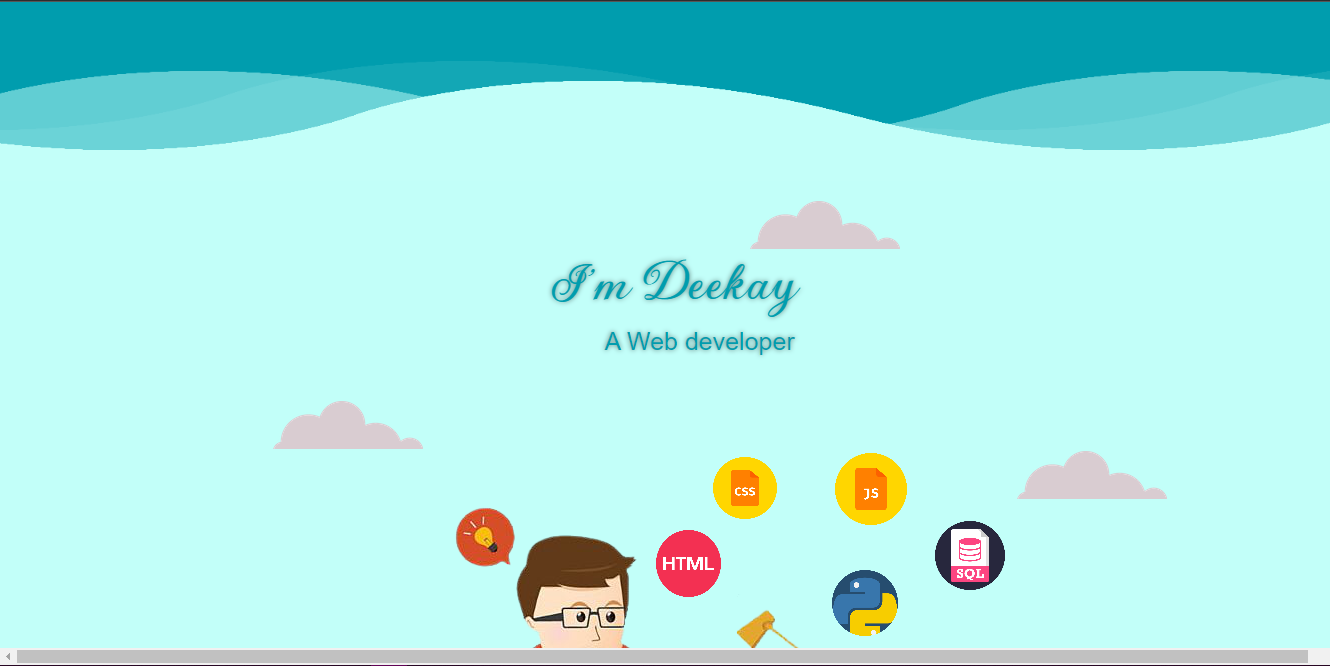
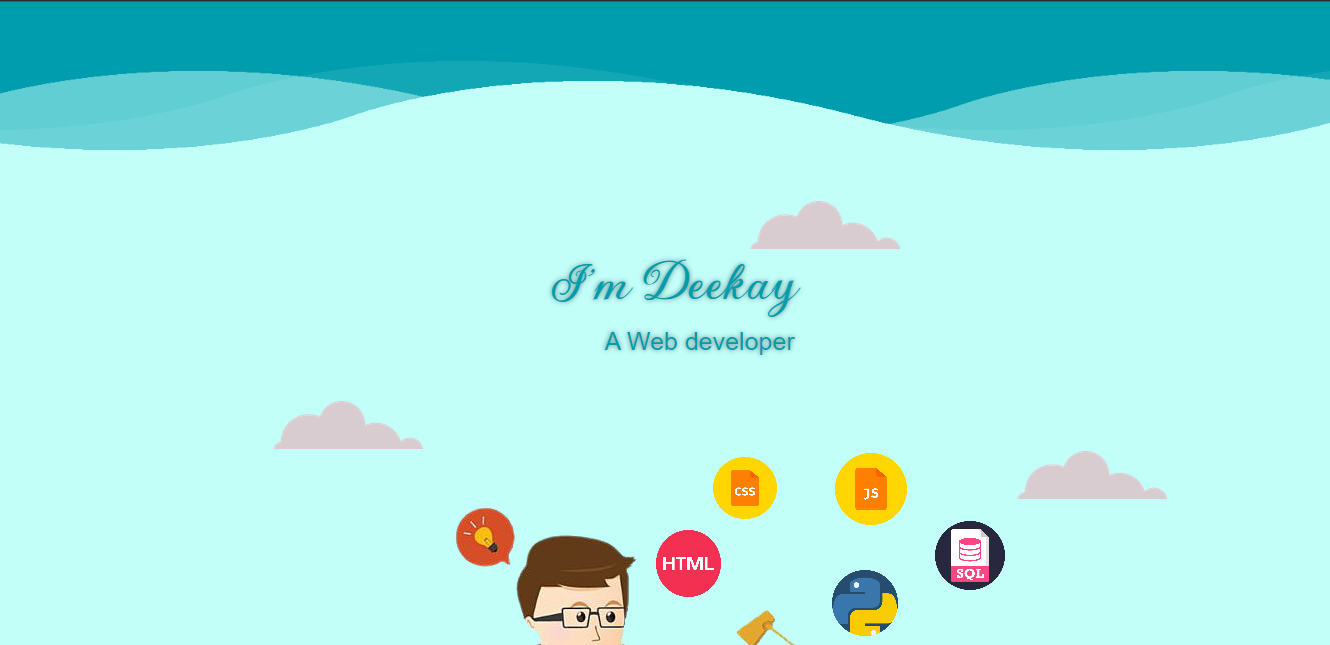
25/12/2021

diff --git a/index.html b/index.html
@@ -5,6 +5,12 @@
     <meta http-equiv="X-UA-Compatible" content="IE=edge" />
     <meta name="viewport" content="width=device-width, initial-scale=1.0" />
     <!--google fonts-->
+    <link rel="preconnect" href="https://fonts.googleapis.com">
+<link rel="preconnect" href="https://fonts.gstatic.com" crossorigin>
+<link href="https://fonts.googleapis.com/css2?family=Staatliches&display=swap" rel="stylesheet">
+    <link rel="preconnect" href="https://fonts.googleapis.com">
+<link rel="preconnect" href="https://fonts.gstatic.com" crossorigin>
+<link href="https://fonts.googleapis.com/css2?family=Anton&display=swap" rel="stylesheet">
     <link rel="preconnect" href="https://fonts.googleapis.com" />
     <link rel="preconnect" href="https://fonts.gstatic.com" crossorigin />
     <link rel="preconnect" href="https://fonts.googleapis.com" />
@@ -91,17 +97,11 @@
 
     <div class="" id="bgclr">
       <div class="row justify-content-evenly">
-        <div
-          class="col-lg-4 col-md-12 col-sm-12 col align-self-center"
-          id="quotes"
-        >
+        <div class="col-lg-4 col-md-12 col-sm-12 align-self-center" id="quotes">
           “ Sometimes, you need to be alone. Not to be lonely, but to enjoy your
           free time being yourself ”
         </div>
-        <div
-          class="col-lg-6 col-md-12 col-sm-12 col align-self-center"
-          id="biopic"
-        >
+        <div class="col-lg-6 col-md-12 col-sm-12 align-self-center" id="biopic">
           <img
             class="img-fluid"
             src="images/mpicbw-removebg-preview.png"
@@ -113,7 +113,7 @@
 
     <!--page 1 footer-->
 
-    <div class="row align-items-center container-fluid" id="bgclr">
+    <div class="row align-items-center container-fluid" id="bgclr1">
       <div class="col-lg-4 col-md-6" id="footer">
         <button class="about shadow">
           <div class="shadow mb-5 midinfo1">

diff --git a/Styles/cheese.css b/Styles/cheese.css
@@ -1,3 +1,4 @@
+
 #top-a-content {
   position: relative;
   left: 75%;
@@ -25,18 +26,31 @@ header h1 {
 #biopic {
   position: relative;
   left: 5%;
+  padding: 5%;
 }
 #quotes {
-  font-family: "Source Sans 3";
-  font-size: 2rem;
-  font-weight: bolder;
+  color: #eee;
+  text-shadow: 0px 0px 6px rgba(0, 0, 0, 0.767);
+  font-family: "Staatliches", 'cursive';
+font-size: 3rem;
   line-height: 1.5;
+  padding: 4%;
 }
+@media (max-width:600px){
+  #quotes{
+  font-size: 1.5rem;
+  }
+
+}
+
 button h3 {
   text-align: left;
   font-family: "Source Sans 3";
   font-weight: bolder;
   color: #eee;
+}
+#bgclr1{
+  background-color: #eee;
 }
 .row {
   text-align: center;
@@ -96,7 +110,7 @@ section {
   position: relative;
   width: 100%;
   height: 22vh;
-  background: #aa14f0;
+  background: #eee;
   overflow: hidden;
 }
 section .wave {
@@ -345,6 +359,11 @@ h5 {
 }
 .cnc{
 border-right:2px solid black;
+}
+@media (max-width:900px){
+ .cnc{
+border-right:none;
+} 
 }
 /* {
   margin: 0;
